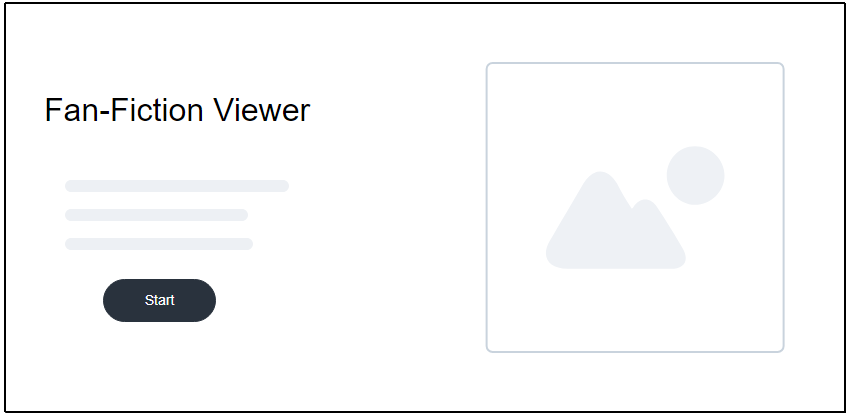
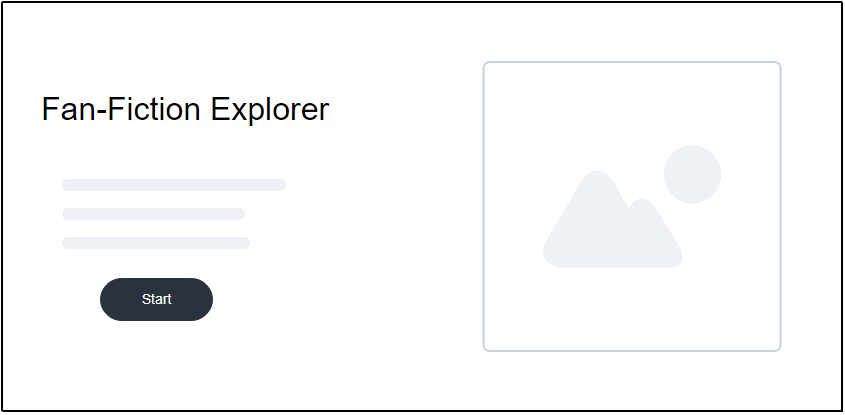
neu

diff --git a/README.md b/README.md
@@ -23,42 +23,50 @@ header-includes: |
 
 
 
-## Aufgabenstellung: Fan-Fiction-Viewer
+## Aufgabenstellung: Fan-Fiction-Explorer
 
-Im Rahmen Ihres Abschlussprojektes implementieren Sie eine Webanwendung, die der Erfassung und Darstellung eines Fan-Fiction Korpus dient. Zur Implementierung des Projekts setzen Sie die im Kurs erworbenen Fähigkeiten und die dort besprochenen Technologien ein.
+Im Rahmen Ihres Abschlussprojektes implementieren Sie eine Webanwendung, die der Erfassung und Darstellung eines Fan-Fiction Korpus dient. Mit Hilfe der Anwendung sollen Nutzer/innen einen Überblick über die zur Verfügung gestellten Fan-Fiction Inhalte erhalten und diese bei Bedarf mit textuellen Kommentaren und Notizen ergänzen können. Zur Implementierung des Projekts setzen Sie die im Kurs erworbenen Fähigkeiten und die dort besprochenen Technologien ein. Das Projekt besteht aus zwei Teilen:
 
+1.  Der erste Teil liefert die Datenbasis für den zweiten Teil des Projekts. Hierfür sollen Sie mit Hilfe des Skripts _Fan-Fiction Data-Importer_ eine Datenbank mit den Fan-Fiction Stories und den dazugehörigen Metadaten erstellen. Gestalten Sie ein geeignetes Datenbankschema und halten Sie sich an die im Kurs besprochenen Normalisierungsregeln (3.NF).
 
+2. Der zweite Teil des Projekts ist die eigentliche Webanwendung, in die Sie die Datenbank einbinden und die im Folgenden beschriebenen Anforderungen implementieren.
 
-## Anforderungen
+   
 
-Das wesentliche Ziel des Projektes ist es, die im JSON-Format bereitgestellten Daten in das System einzupflegen und im Anschluss für den/die Nutzer/in – aufbereitet – zugänglich zu machen. Die zu implementierende Anwendung erfüllt dazu zwei Funktionen: 
+## Anforderungen Teil 1
 
-(1) Die Informationen werden dem/der Nutzer/in strukturiert zugänglich gemacht. Als Nutzer/in können Sie einen Überblick über den Autor und Charaktere der Story, und weitere Metadaten erhalten.
+Die Anforderungen des ersten Teils des Projekts und das für Sie zur Verfügung gestellte Skript finden Sie [\textcolor{blue}{hier}](https://github.com/Webtechnologien-Regensburg/Fan-Fiction-Data-Importer).
 
-(2) Über eine entsprechende graphische Schnittstelle können Nutzer/innen die Inhalte um zusätzliche Informationen ergänzen. So können Kommentare und Notizen zu den jeweiligen Fan-Fiction Inhalten hinzugefügt und in einer Datenbank persistiert werden. 
+## Anforderungen Teil 2
 
-## Technischer Rahmen
+Das wesentliche Ziel des Projektes ist es, die bereitgestellten Daten in das System einzupflegen und im Anschluss für den/die Nutzer/in – aufbereitet – zugänglich zu machen. Die zu implementierende Anwendung erfüllt dabei zwei grundlegende Funktionen: 
 
-Die Implementierung der Anwendung erfolgt auf der im Kurs gelernten Technologien. Die zu persistierenden Daten werden in einer SQLite-Datenbank gespeichert. Zur Gestaltung der Benutzeroberfläche verwenden Sie HTML & CSS. Die graphische Aufbereitung auf der Übersichtsseite können Sie mit der im Kurs besprochenen Javascript-Bibliothek [\textcolor{blue}{Chart.js}](http://www.chartjs.org/).  Bitte reichen Sie bei Abgabe die erstellte und befüllte Datenbank mit ein. 
+1. Die Informationen werden dem/der Nutzer/in strukturiert zugänglich gemacht. Als Nutzer/in können Sie unter anderem einen Überblick über den Autor, Charaktere und den Inhalt der Geschichten erhalten.
 
-Verwenden Sie das Ihnen zur Verfügung gestellte Starter-Paket, um Ihre Anwendung zu implementieren. Das Starter-Paket enthält die wesentlichen node.js Module (_index.js_, _Database.js_) sowie Module, die für die clientseitigen Funktionalitäten der Anwendung zuständig sind (_app.js_, _DatabaseClient.js_).  
+2. Über eine entsprechende graphische Schnittstelle können Nutzer/innen die Inhalte um zusätzliche Informationen ergänzen. So können Kommentare und Notizen zu den jeweiligen Fan-Fiction Inhalten hinzugefügt und in einer Datenbank persistiert werden. 
 
+Ihre Applikation benötigt mindestens drei Seiten:
 
+1. Eine Startseite, die beim Start Ihrer Anwendung angezeigt wird.
 
+2. Eine Übersichtsseite, bestehend aus einer Listenansicht, die alle Fan-Fiction Inhalte darstellt, und einer Detailansicht, die Informationen über die entsprechende Fan-Fiction Geschichte zur Verfügung stellt. Dabei sollen alle wichtigen Metadaten (z.B. Titel, Autor, Charaktere, Kategorie, Fangemeinde, Rating) in der Detailansicht angezeigt werden.
 
+3. Eine Lese - und Kommentarseite, die die entsprechende Fan-Fiction Geschichte darstellt und es dem/der Nutzer/in ermöglicht, sich über ein Eingabefeld Notizen und Kommentare zu der jeweiligen Geschichte zu machen. Auch die vom Nutzer generierten Informationen werden auf dieser Seite angezeigt. Außerdem können Sie zwischen den einzelnen Geschichten wechseln ohne dabei zur Übersichtsseite zurückspringen zu müssen.
 
-## Beschreibung der Datengrundlage
+Orientieren Sie sich für die Gestaltung der drei Seiten an den im Folgenden dargestellten Skizzen der Benutzeroberfläche.
 
-Die Datenbasis umfasst das zur Verfügung gestellte Fan-Fiction Korpus im JSON-Format. Erstellen Sie zusätzlich dazu eine eigene Datenbank, die die Kommentare und Notizen zu den entsprechenden Fan-Fiction Stories abspeichert.  _Welches Feature kann man dem Nutzer noch zur Verfügung stellen, so dass er/sie Informationen generiert, die dann in der DB gespeichert werden._ 
+## Denkbare Benutzerinteraktion
 
-
+1. Über die Startseite kann der/die Nutzer/in über einen Button-Klick zur Übersichtsseite gelangen.
+2. Über einen Klick auf die Listenelemente erhält der/die Nutzer/in die entsprechenden Informationen zur dazugehörigen Fan-Fiction Geschichte.
+3. Über einen Klick auf einen Button springt der/die Nutzer/in zur Lese-und Kommentarseite, die Eingabefelder für Kommentare und Notizen enthält.  Zusätzliche Buttons ermöglichen einen Wechsel der Geschichten.
 
 ## Skizzen der Benutzeroberfläche
 
 Die folgenden Skizzen beschreiben die wesentlichen Bestandteile der Benutzeroberfläche. Bei
 der Implementierung der Anwendung müssen Sie sich an diesen Vorgaben orientieren. Bitte
-beachten Sie dabei jedoch, dass die Skizzen die Struktur und den Inhalt der Benutzeroberfläche
-beschreiben, nicht zwangsläufig deren finales oder vollständiges Aussehen.
+beachten Sie dabei jedoch, dass die Skizzen lediglich die Struktur und den Inhalt der Benutzeroberfläche
+beschreiben, nicht aber deren finales oder vollständiges Aussehen.
 
 ![](Home.PNG){ height=8cm }
 
@@ -66,13 +74,31 @@ beschreiben, nicht zwangsläufig deren finales oder vollständiges Aussehen.
 
 ![](Scene.PNG){ height=8cm }
 
+
+
+## Beschreibung der Datengrundlage
+
+Die Datenbasis umfasst das zur Verfügung gestellte Fan-Fiction Korpus im JSON-Format. Erstellen Sie zusätzlich dazu eine eigene Datenbank, die die textuellen Kommentare und Notizen zu den entsprechenden Fan-Fiction Stories abspeichert.
+
+
+
+## Technischer Rahmen
+
+Die Implementierung der Anwendung erfolgt auf der im Kurs gelernten Technologien. Die zu persistierenden Daten werden in einer SQLite-Datenbank gespeichert. Zur Gestaltung der Benutzeroberfläche verwenden Sie HTML & CSS. Die graphische Aufbereitung auf der Übersichtsseite können Sie mit der im Kurs besprochenen Javascript-Bibliothek [\textcolor{blue}{Chart.js}](http://www.chartjs.org/).  Bitte reichen Sie bei Abgabe die erstellte und befüllte Datenbank mit ein. Verwenden Sie das Ihnen zur Verfügung gestellte [\textcolor{blue}{Starter-Paket}](https://github.com/Webtechnologien-Regensburg/Projekt/tree/master/StarterPaket), um die Webanwendung zu implementieren. Das Starter-Paket enthält die wesentlichen node.js Module (_index.js_, _Database.js_) sowie Module, die für die clientseitigen Funktionalitäten der Anwendung zuständig sind (_app.js_, _DatabaseClient.js_).  
+
+
+
+
+
 # Projektablauf
 
 Sollten Sie während der Arbeit an Ihrem Projekt Fragen haben oder Hilfestellungen benötigen, kontaktieren Sie uns per Mail oder besuchen Sie unsere Sprechstunden. Versuchen Sie bei Problemen möglichst früh mit uns Kontakt aufzunehmen. Zusätzlich zu diesem freiwilligen Angebot sind diese verpflichtenden Termine wahrzunehmen:
 
-**05. August**        Projekt-Kickoff zum Klären offener Fragen und zum Abstimmen des Vorgehens [mit Alexander Bazo]
+**Zwischen 3. und 6. August: **	
 
-**16. September**  Finale Besprechung des aktuellen Stands vor der Abgabe [mit Martin Kocur]
+Projekt-Kickoff zum Klären offener Fragen und zum Abstimmen des Vorgehens [mit Alexander Bazo]. 
+
+**Zwischen 7. und 11. September **  Finale Besprechung des aktuellen Stands vor der Abgabe [mit Martin Kocur]
 
 
 
